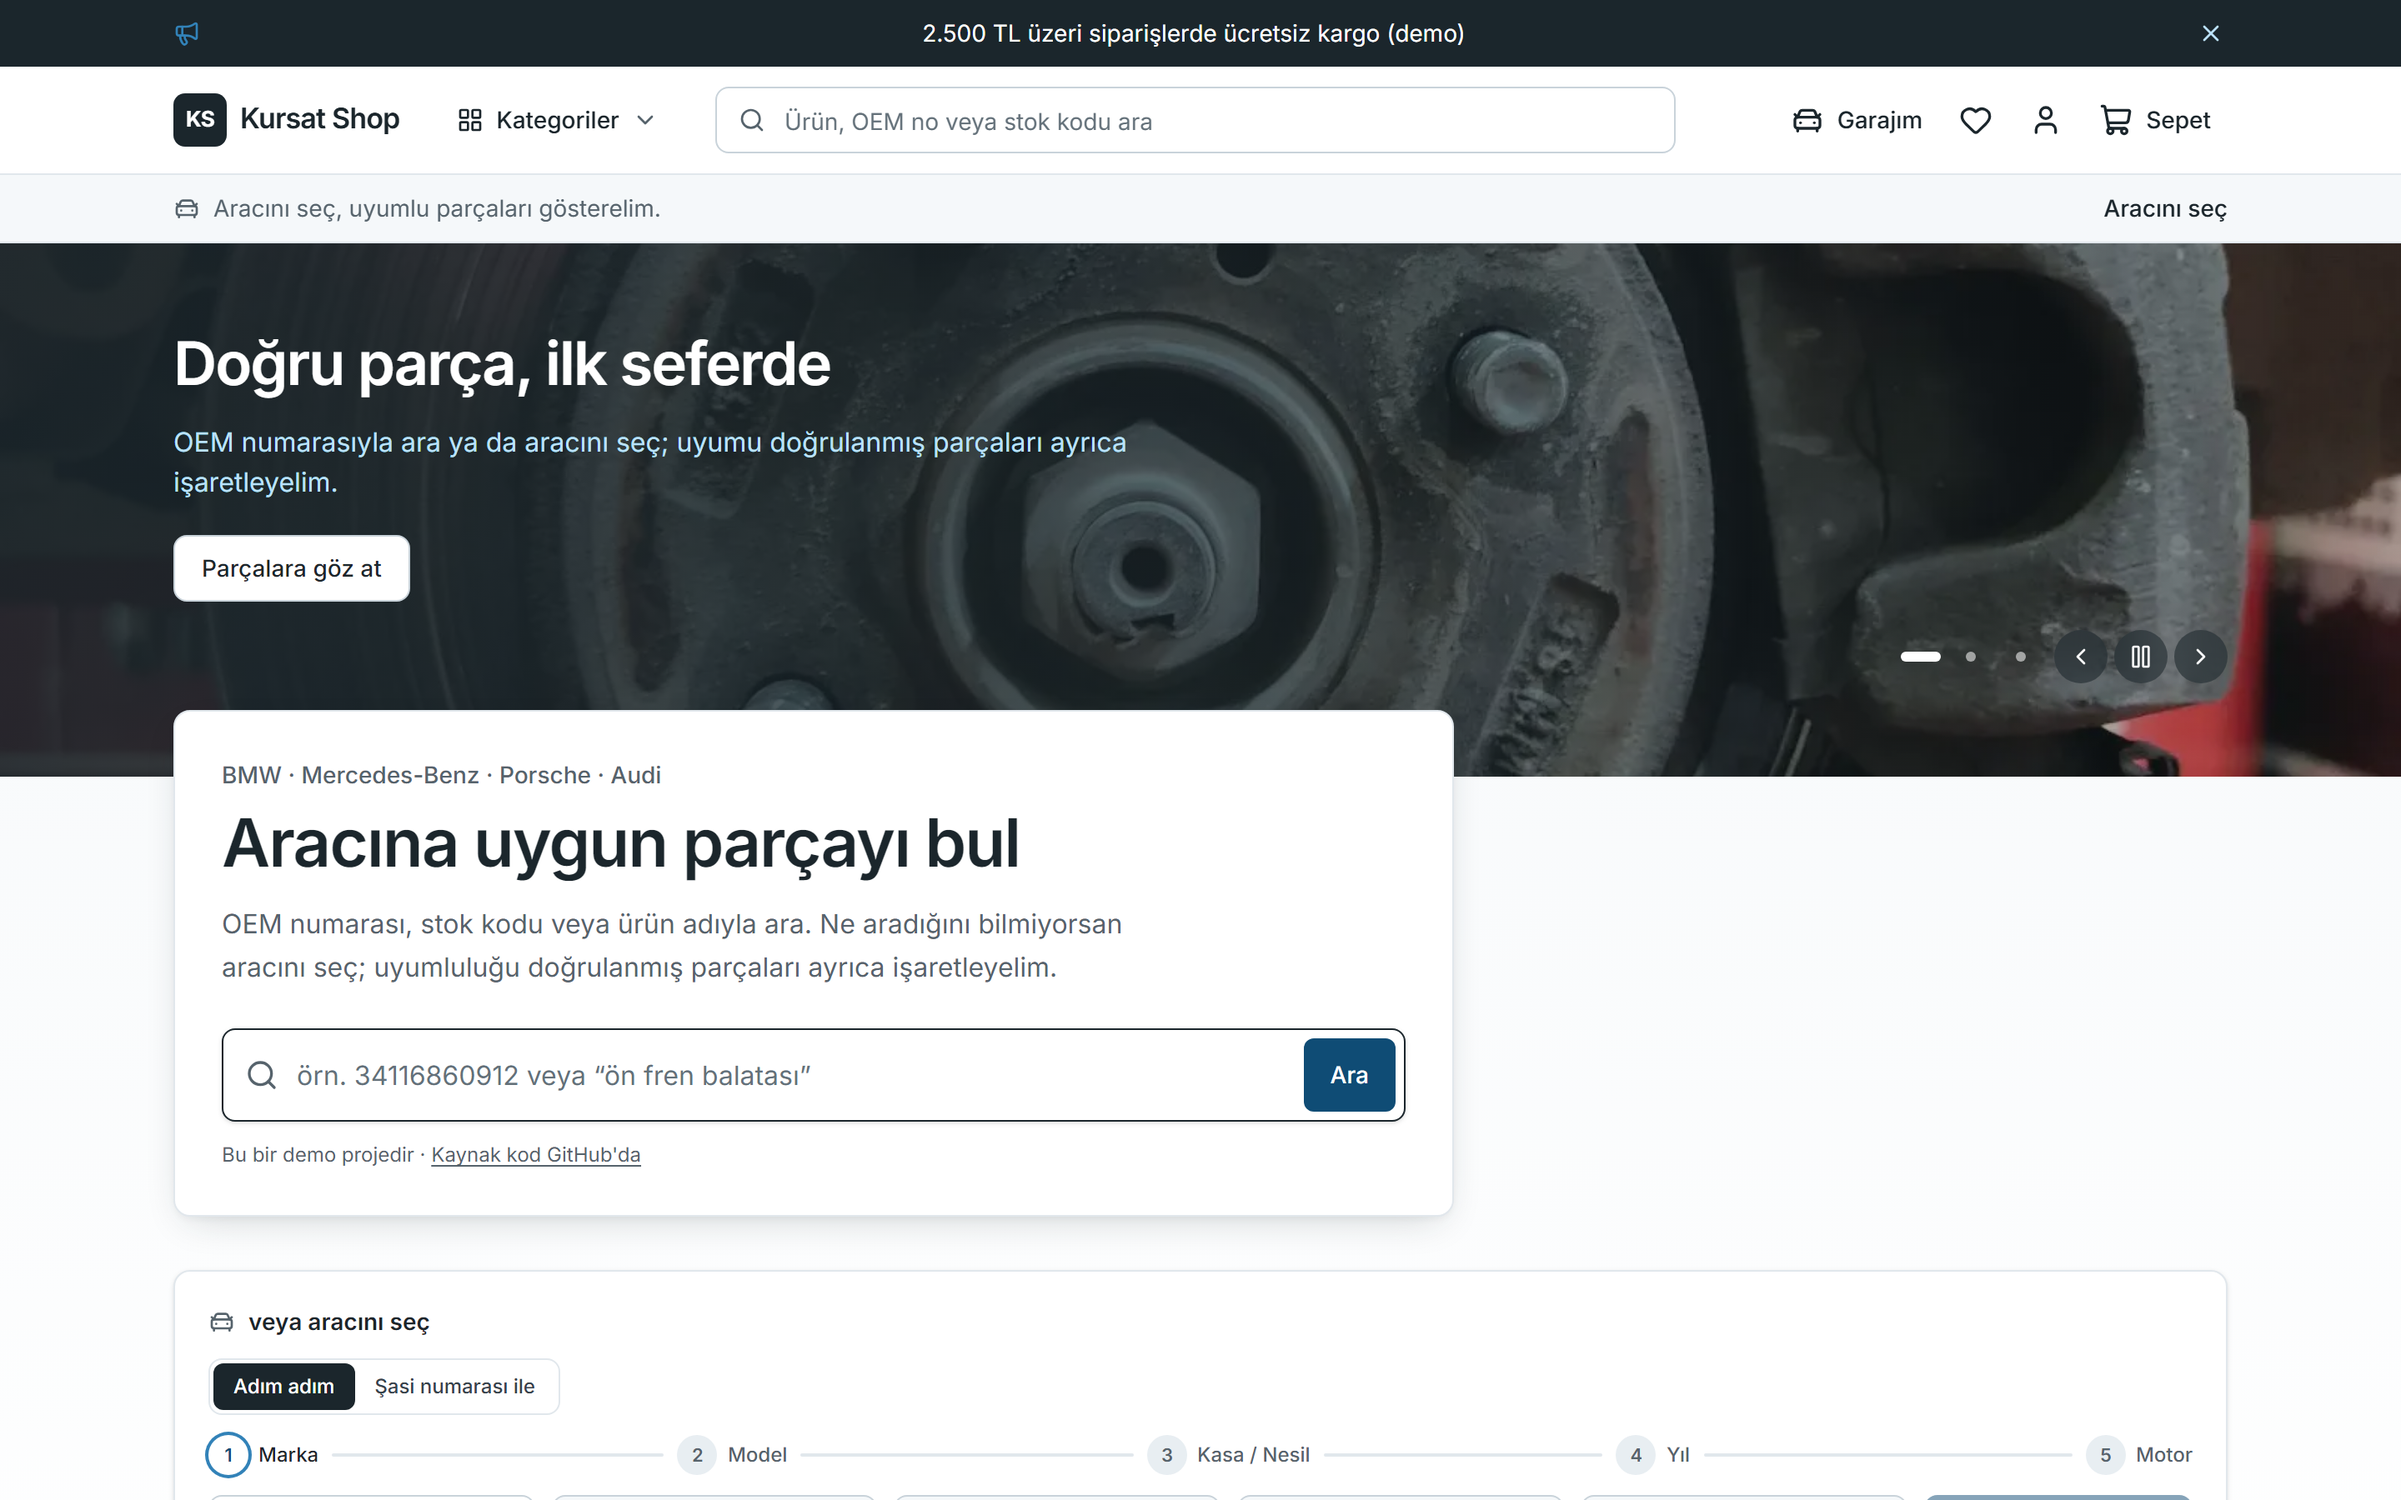
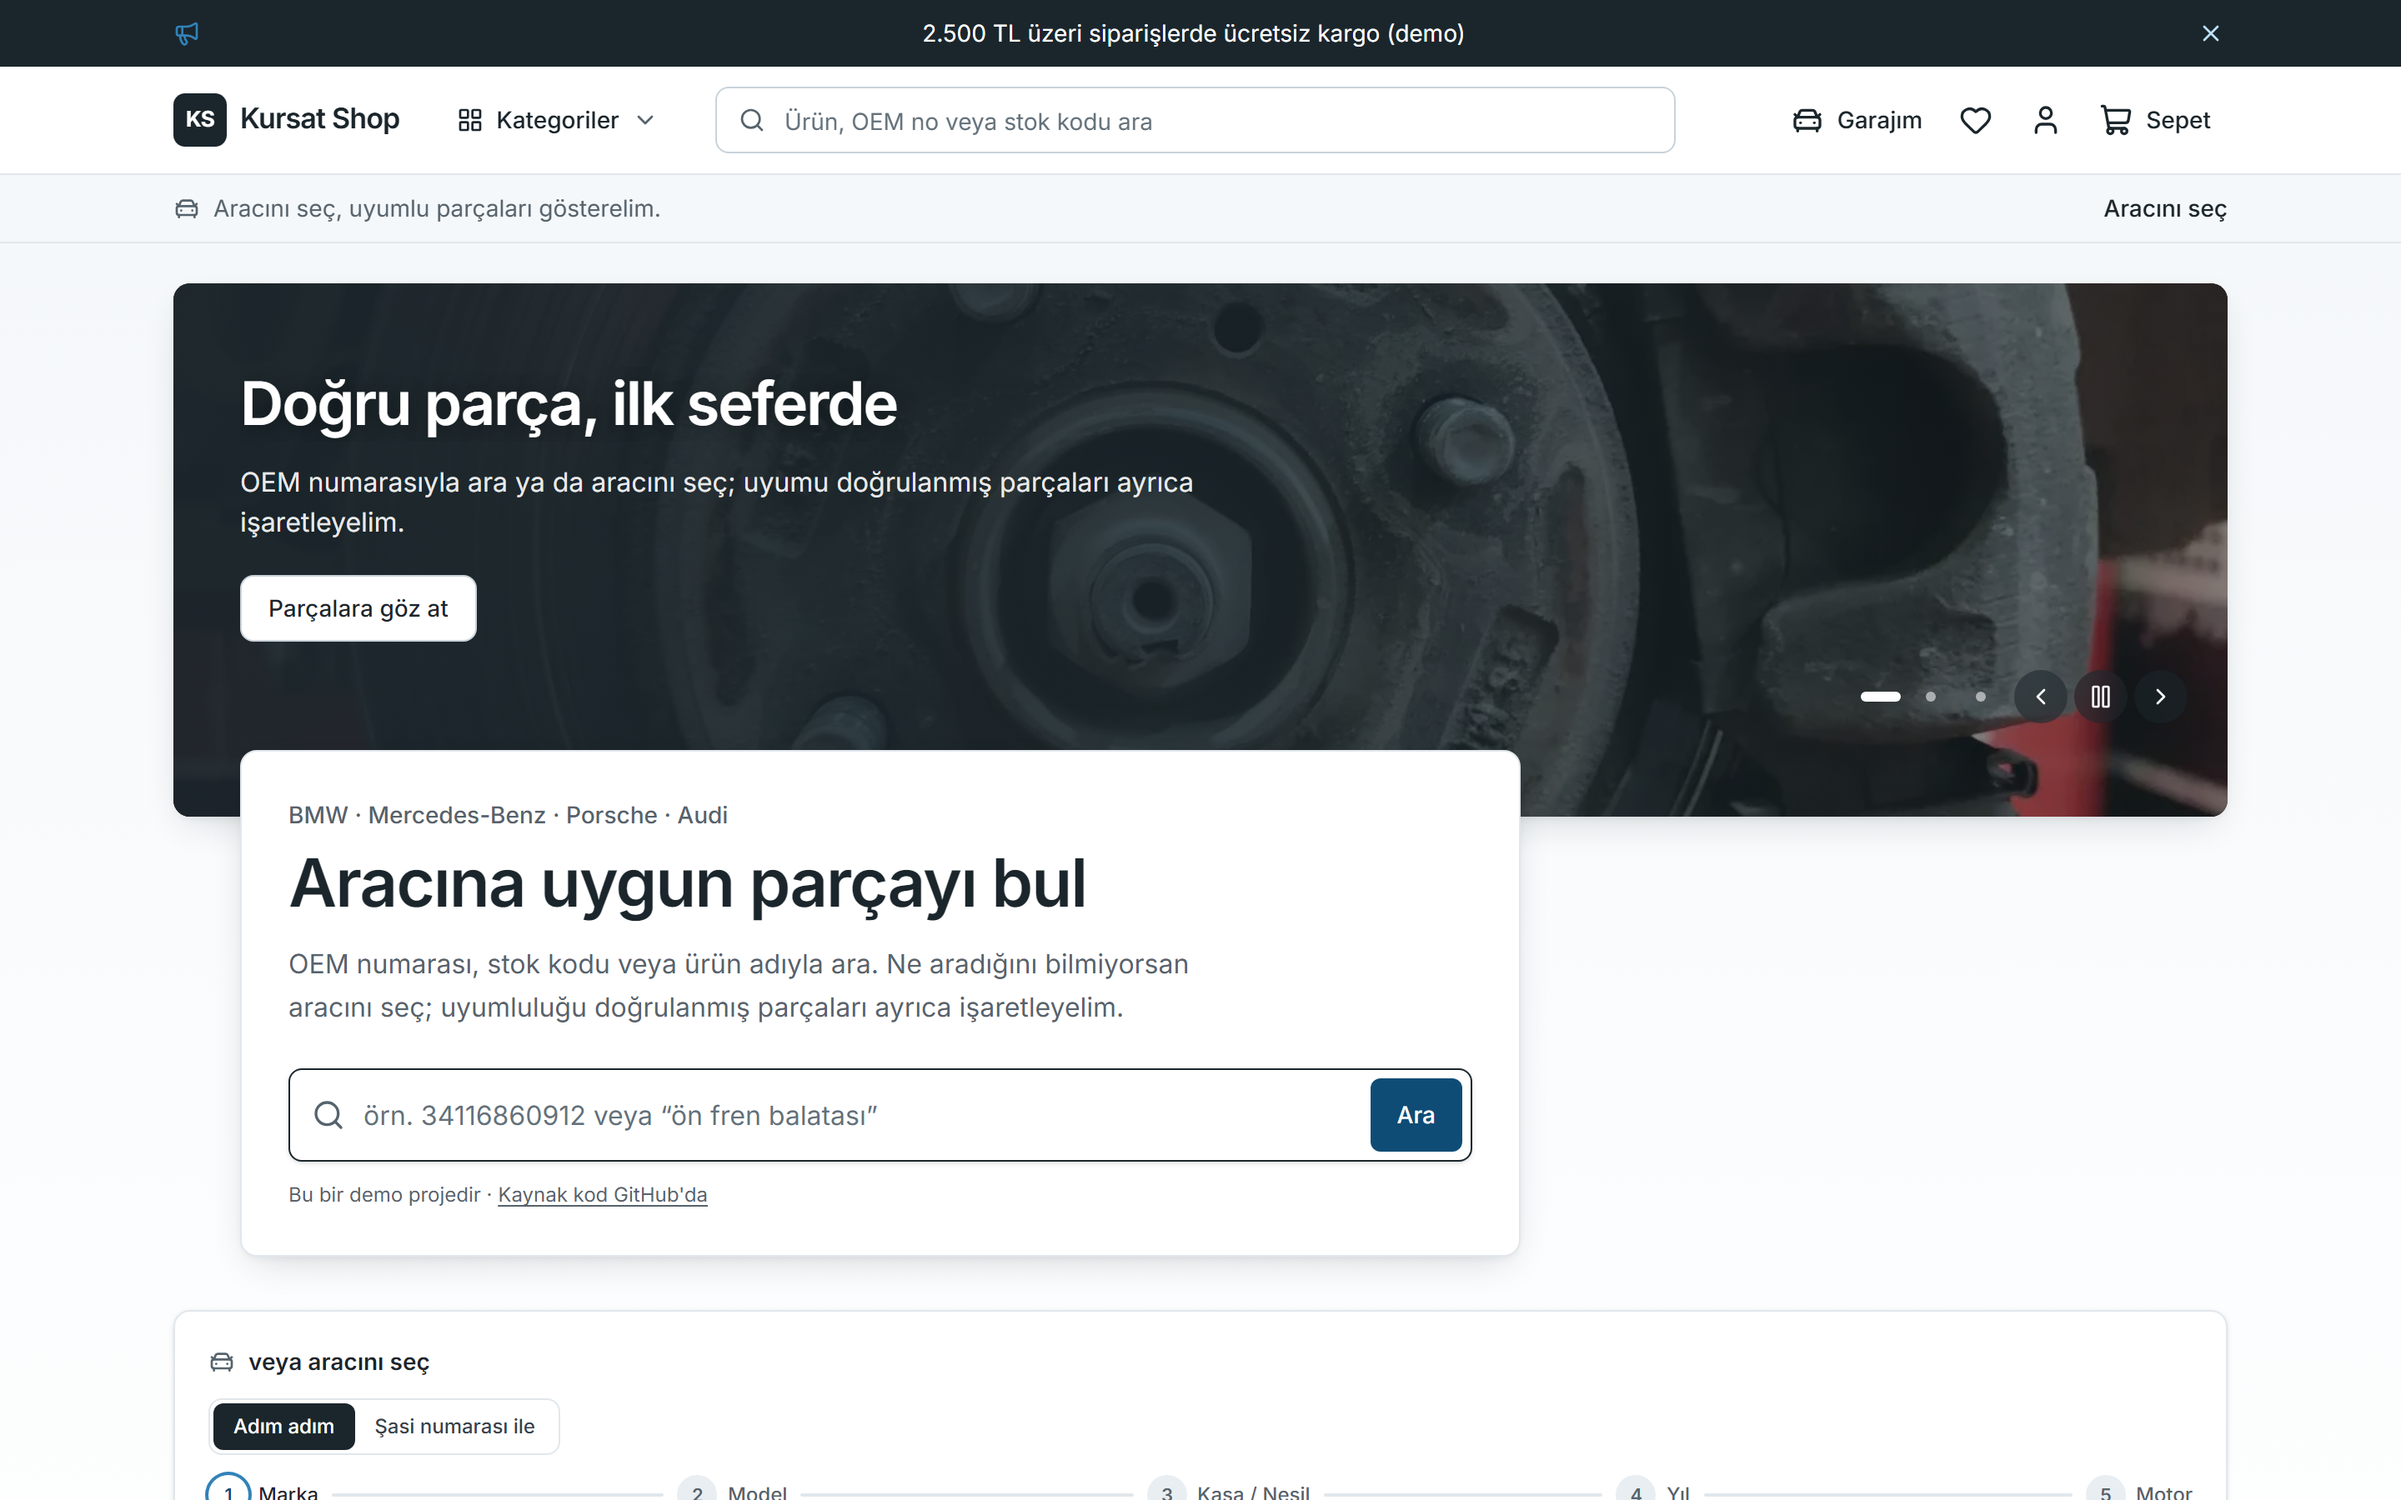
Slider metinleri okunur hale getirildi ve sayfa genişliğiyle sınırlandı
- Metin arkasında daha yoğun örtü, beyaz alt metin ve başlık gölgesi
- Slider sayfa genişliğinde (en fazla 1280 px), yuvarlatılmış köşeli kart olarak
- Arama kartı slider'ın üzerine içeriden biniyor
- Ekran görüntüleri güncellendi

Changed region(s): [[0.0, 0.1556, 1.0, 0.84], [0.0625, 0.8711, 0.9375, 1.0]]

diff --git a/src/components/store/HeroSlider.tsx b/src/components/store/HeroSlider.tsx
@@ -12,11 +12,12 @@ import { useHydrated } from "@/state/persistent-store";
 
 const AUTOPLAY_MS = 6000;
 
-// On phones the text spans the full width, so the overlay is uniform; from md up it fades to the right.
+// On phones the text spans the full width, so the overlay is uniform; from md up it stays dense behind
+// the text column and only opens up on the far right where there is no text.
 const overlays: Record<HeroSlide["tone"], string> = {
-  dark: "bg-night/80 md:bg-transparent md:bg-gradient-to-r md:from-night/90 md:via-night/70 md:to-night/25",
-  accent: "bg-accent/85 md:bg-transparent md:bg-gradient-to-r md:from-accent/95 md:via-accent/75 md:to-accent/30",
-  light: "bg-white/85 md:bg-transparent md:bg-gradient-to-r md:from-white/95 md:via-white/80 md:to-white/30",
+  dark: "bg-night/85 md:bg-transparent md:bg-gradient-to-r md:from-night/95 md:via-night/85 md:to-night/45",
+  accent: "bg-accent/90 md:bg-transparent md:bg-gradient-to-r md:from-accent md:via-accent/90 md:to-accent/50",
+  light: "bg-white/90 md:bg-transparent md:bg-gradient-to-r md:from-white md:via-white/90 md:to-white/50",
 };
 
 function subscribeReducedMotion(onChange: () => void) {
@@ -56,19 +57,24 @@ export function HeroSlideView({
           alt={photo.alt}
           fill
           priority={priority}
-          sizes="100vw"
+          sizes="(min-width: 1280px) 1280px, 100vw"
           unoptimized={photo.src.endsWith(".svg")}
           className="object-cover"
         />
       )}
       <div className={cn("absolute inset-0", overlays[slide.tone])} aria-hidden="true" />
-      <div className="container-page relative flex h-full flex-col justify-center pt-10 pb-8 md:pt-0 md:pb-14">
+      <div className="relative flex h-full flex-col justify-center px-5 pt-10 pb-8 md:px-10 md:pt-0 md:pb-14">
         <div className="max-w-xl">
-          <h2 className={cn("line-clamp-2 text-xl font-semibold tracking-tight text-balance sm:text-2xl md:text-4xl md:leading-tight", onDark ? "text-white" : "text-ink")}>
+          <h2
+            className={cn(
+              "line-clamp-2 text-xl font-semibold tracking-tight text-balance sm:text-2xl md:text-4xl md:leading-tight",
+              onDark ? "text-white [text-shadow:0_1px_12px_rgb(0_0_0/0.35)]" : "text-ink",
+            )}
+          >
             {slide.title}
           </h2>
           {slide.subtitle && (
-            <p className={cn("mt-1.5 line-clamp-2 text-sm md:mt-3 md:text-base", onDark ? "text-accent-soft" : "text-ink-soft")}>{slide.subtitle}</p>
+            <p className={cn("mt-1.5 line-clamp-2 text-sm md:mt-3 md:text-base", onDark ? "text-white/90" : "text-ink-soft")}>{slide.subtitle}</p>
           )}
           {slide.ctaLabel && slide.ctaHref && (
             <LinkButton href={slide.ctaHref} variant={onDark ? "secondary" : "primary"} size="sm" className="mt-3 md:mt-5 md:h-10 md:px-4">
@@ -131,7 +137,7 @@ export function HeroSlider() {
     <section
       aria-roledescription="carousel"
       aria-label="Öne çıkanlar"
-      className="relative h-56 md:h-80"
+      className="relative h-56 overflow-hidden rounded-[var(--radius-card)] shadow-[var(--shadow-pop)] md:h-80"
       onPointerEnter={() => setHovered(true)}
       onPointerLeave={() => setHovered(false)}
       onFocus={() => setFocused(true)}
@@ -164,7 +170,7 @@ export function HeroSlider() {
       </div>
 
       {count > 1 && (
-        <div className="container-page pointer-events-none absolute inset-x-0 top-3 flex items-center justify-end gap-2 md:top-auto md:bottom-14">
+        <div className="pointer-events-none absolute inset-x-0 top-3 flex items-center justify-end gap-2 px-3 md:top-auto md:bottom-14 md:px-6">
           <div className="pointer-events-auto flex items-center gap-1.5">
             {slides.map((slide, i) => (
               <button

diff --git a/src/components/store/HomeSections.tsx b/src/components/store/HomeSections.tsx
@@ -28,14 +28,18 @@ export function HomeHero() {
 
   return (
     <section className="border-b border-line bg-gradient-to-b from-surface to-white">
-      <SectionBoundary label="Vitrin">
-        <HeroSlider />
-      </SectionBoundary>
+      {hasSlides && (
+        <div className="container-page pt-4 md:pt-6">
+          <SectionBoundary label="Vitrin">
+            <HeroSlider />
+          </SectionBoundary>
+        </div>
+      )}
       <div className="container-page pb-10 md:pb-16">
         <div
           className={cn(
             "relative z-10 max-w-3xl rounded-[var(--radius-card)] border border-line bg-white p-5 shadow-[var(--shadow-pop)] md:p-7",
-            hasSlides ? "-mt-6 md:-mt-10" : "mt-8 md:mt-12",
+            hasSlides ? "mx-2 -mt-6 md:mx-0 md:ml-10 md:-mt-10" : "mt-8 md:mt-12",
           )}
         >
           <p className="text-sm font-medium text-muted">BMW · Mercedes-Benz · Porsche · Audi</p>
